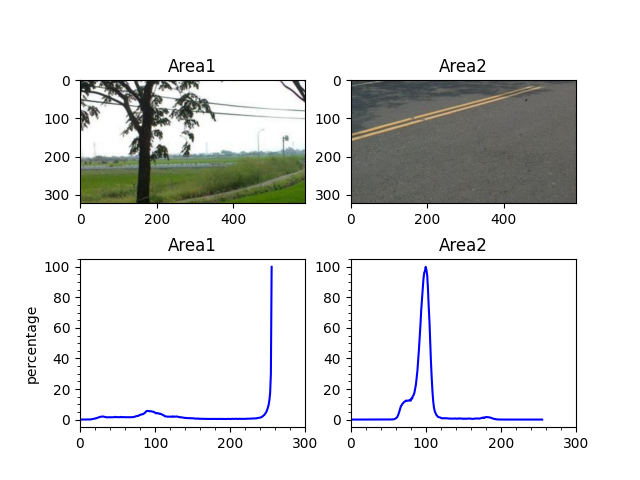
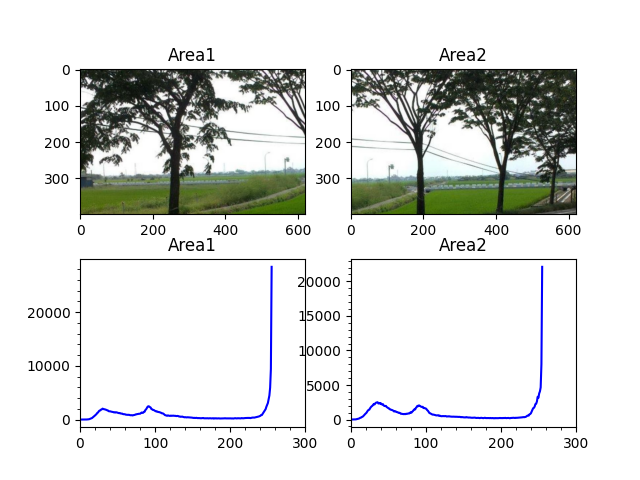
fix: 修正圖表的呈現方式

diff --git a/HW2/HW2.py b/HW2/HW2.py
@@ -67,8 +67,8 @@ def main():
     # print(H1)
 
     # 正規化
-    H1 = cv2.normalize(H1, H1, 0, 100, cv2.NORM_MINMAX, -1)
-    H2 = cv2.normalize(H2, H2, 0, 100, cv2.NORM_MINMAX, -1)
+    # H1 = cv2.normalize(H1, H1, 0, 100, cv2.NORM_MINMAX, -1)
+    # H2 = cv2.normalize(H2, H2, 0, 100, cv2.NORM_MINMAX, -1)
 
     # 畫圖
     fig, ax = plt.subplots(2, 2)
@@ -83,7 +83,7 @@ def main():
     ax[1, 0].plot(H1, color='b')
     ax[1, 0].minorticks_on()
     ax[1, 0].set_xlim([0, 300])
-    ax[1, 0].set_ylabel("percentage")
+    # ax[1, 0].set_ylabel("percentage")
 
     ax[1, 1].set_title('Area2')
     ax[1, 1].plot(H2, color='b')

diff --git a/HW2/HW2.md b/HW2/HW2.md
@@ -98,8 +98,8 @@ def main():
     # print(H1)
 
     # 正規化
-    H1 = cv2.normalize(H1, H1, 0, 100, cv2.NORM_MINMAX, -1)
-    H2 = cv2.normalize(H2, H2, 0, 100, cv2.NORM_MINMAX, -1)
+    # H1 = cv2.normalize(H1, H1, 0, 100, cv2.NORM_MINMAX, -1)
+    # H2 = cv2.normalize(H2, H2, 0, 100, cv2.NORM_MINMAX, -1)
 
     # 畫圖
     fig, ax = plt.subplots(2, 2)
